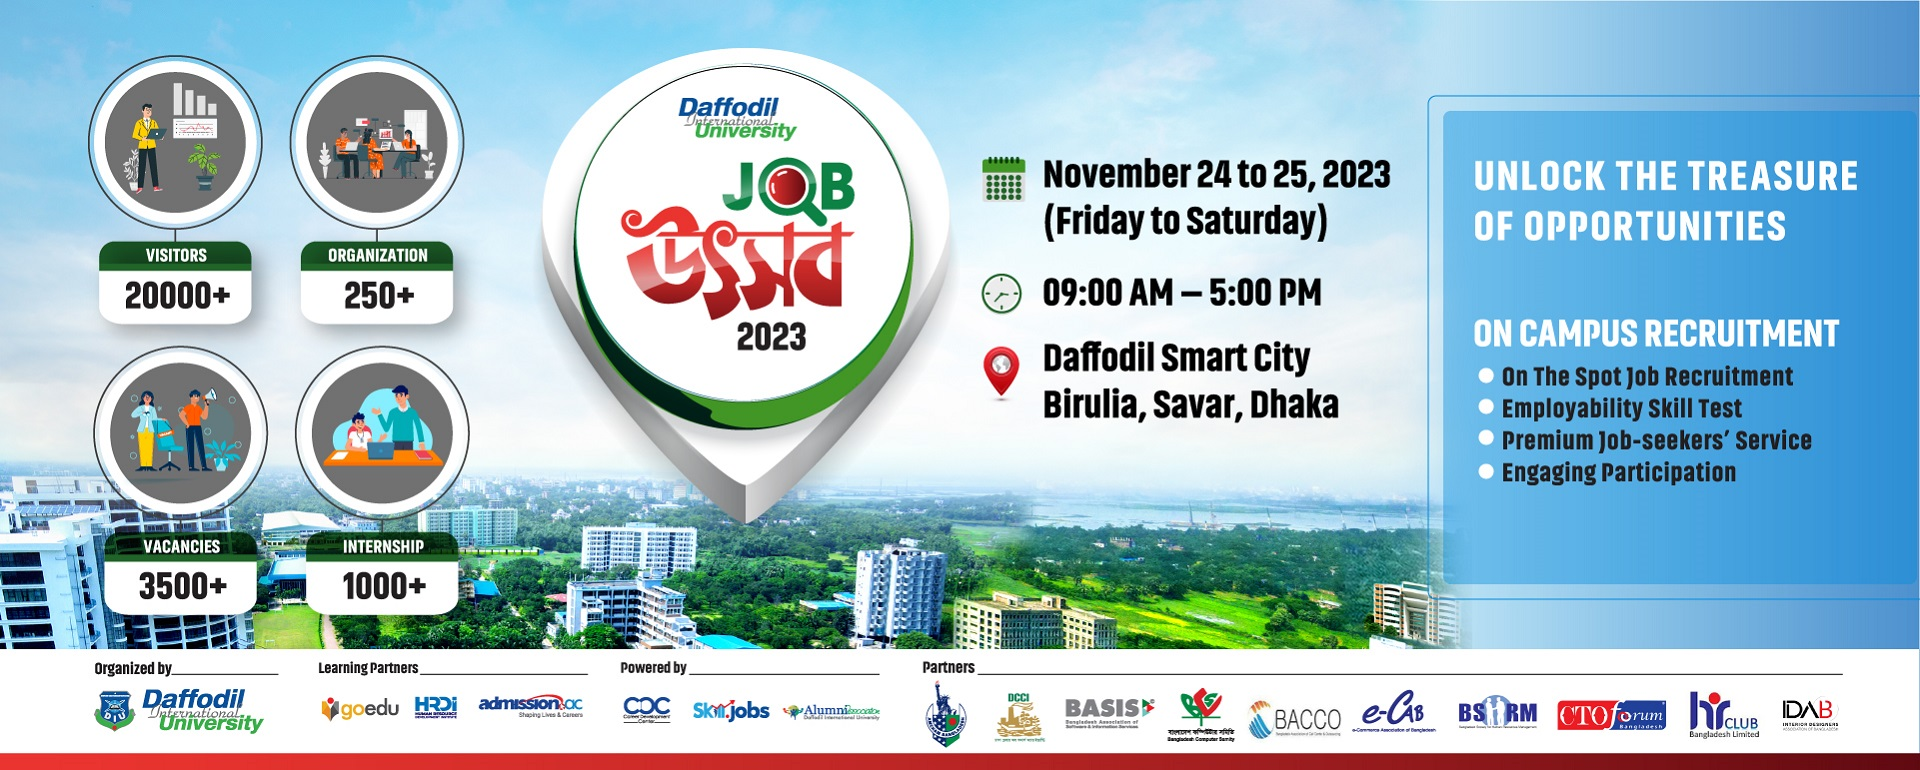
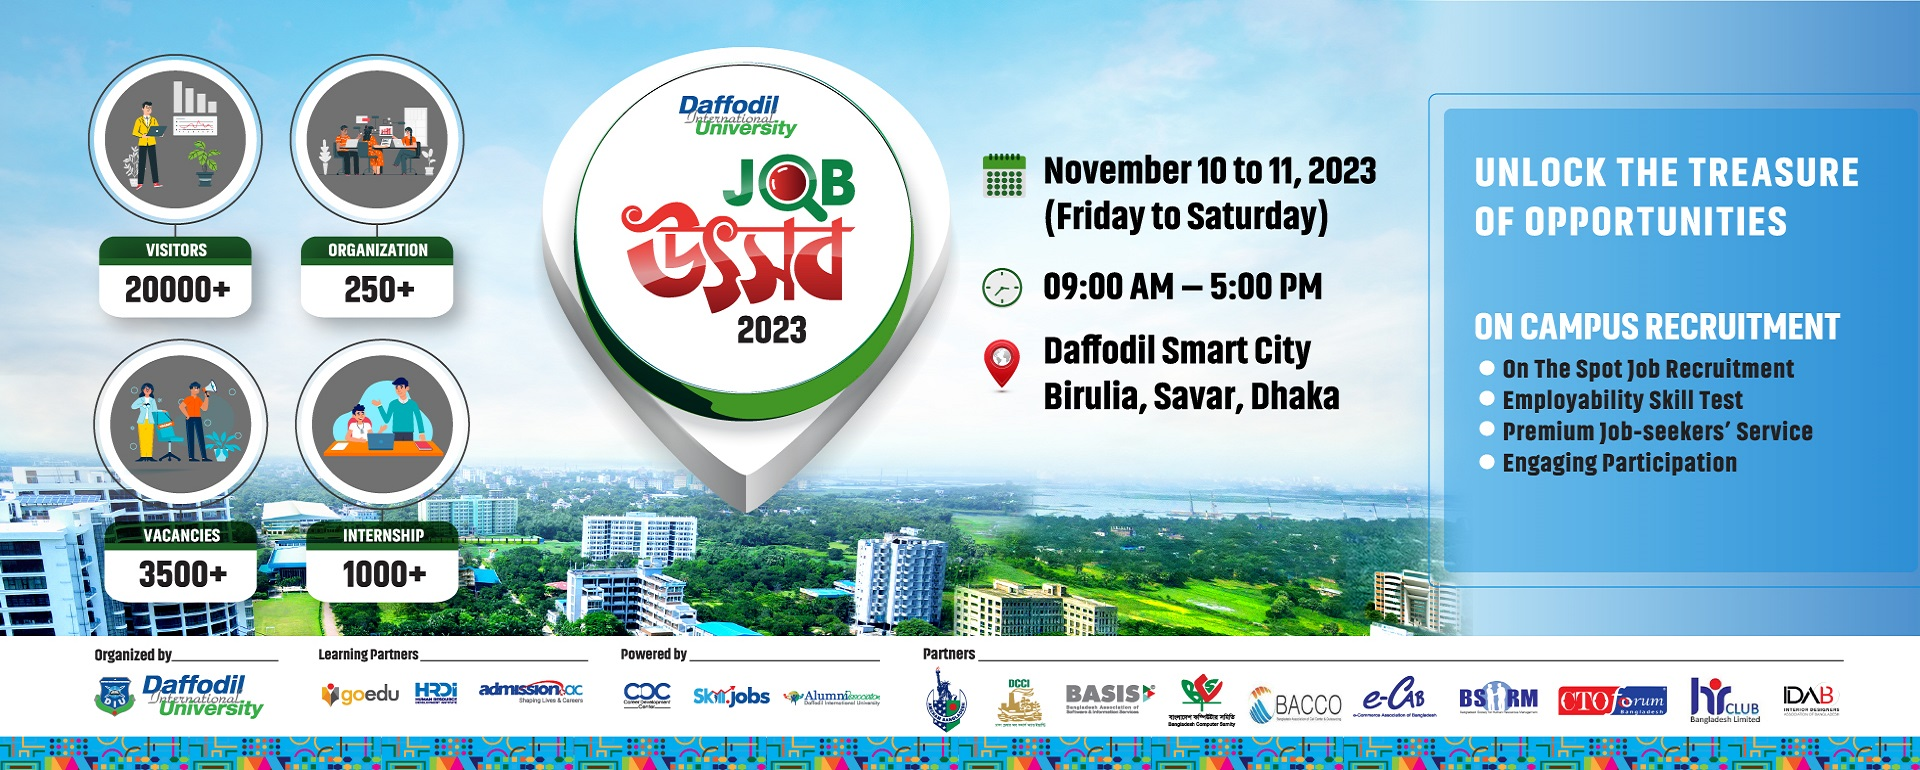
Time schedule updated

diff --git a/resources/views/jobseeker/create.blade.php b/resources/views/jobseeker/create.blade.php
@@ -132,7 +132,7 @@
                 <div class="col-md-4">
                     <label for="name">Jobseeker Type</label>
                     <input id="jobseeker_type" type="text" class="form-control @error('jobseeker_type') is-invalid @enderror" name="jobseeker_type" required autocomplete="jobseeker_type" readonly>
-                    <small> <i>application fee: BDT. <span id="output"></span></i></small><br>
+                    <!--<small> <i>application fee: BDT. <span id="output"></span></i></small><br>-->
                     <p><span class="font-italic small">(This field will take auto input depending on the passing year of the bachelor)</span></p>
                     @error('jobseeker_type')
                         <span class="invalid-feedback" role="alert">
@@ -161,7 +161,6 @@
                     </select>
                 </div>
             </div>
-            
             <div class="form-group row">
                 <div class="col-md-6">
                     <div class="form-group row mt-4">
@@ -403,7 +402,8 @@
                 </div>
             </div>
             <hr>
-            <h5 class="text-center mt-4" style="color: DodgerBlue;">Your Registration Fee BDT. <span id="test_payment"></span></h5>
+            <!--<h5 class="text-center mt-4" style="color: DodgerBlue;">Your Registration Fee BDT. <span id="test_payment"></span></h5>-->
+            <p class="text-center mt-4" style="color: DodgerBlue;">Registration Fee: Tk 200/participant (for Food Coupon)</p>
             <h5 class="text-center" style="color: #FF647F">Make bKash Payment To 01811458885</h5>
             <div class="form-group row mb-5">
                 <label for="trix" class="col-md-3 col-form-label text-md-right">{{ __('Enter bKash Transaction ID') }}<span class="text-danger"> *</span></label>
@@ -446,7 +446,7 @@
     });
 </script>
 <script>
-    $(document).ready(function() {
+$(document).ready(function() {
         $('select[name="masters_faculty_id"]').on('change', function() {
             var mfacultyID = $(this).val();
             if(mfacultyID) {
@@ -467,7 +467,6 @@
         });
     });
 </script>
-<!-- Script for gender selection -->
 <script>
     const genderButtons = document.querySelectorAll('.gender');
     const genderInput = document.getElementById('gender-input');

diff --git a/resources/views/welcome.blade.php b/resources/views/welcome.blade.php
@@ -58,7 +58,7 @@
 			<div class="col-sm-offset-3 col-sm-6 text-center">
 				<div class="centered-content" style="margin-top: 48px; margin-bottom: 48px">
 					<!-- Your countdown content goes here -->
-					<div class="meeta-countdown countdown" data-countdown="2023/11/24" data-format="short">
+					<div class="meeta-countdown countdown" data-countdown="2023/11/10" data-format="short">
 						<div class="single-countdown">
 							<span class="count countdown__time daysLeft"></span>
 							<span class="value countdown__time daysText"></span>
@@ -81,12 +81,11 @@
 		</div>
 	</div>
 </div>
-	<!-- Register & Countdown Section End -->
 <div class="container-fluid latest-blog latest-blog-section">
 		<div class="container section-padding" id="about">
 		    <div class="row">
     			<div class="section-header">
-    				<h3 style="padding-bottom: 0px;">DIU Job Utsob 2023</h3>
+    				<h3>DIU Job Utsob 2023</h3>
     			</div>
     			<div class="section-body">
     				<P>
@@ -201,7 +200,7 @@
 								<div class="timer-box">
 									<h3>DIU JOB UTSOB-2023 </h3>
 									<div class="content-center">
-										<p><b>Date: November 24-25, 2023 (Friday-Saturday).</b></p>
+										<p><b>Date: November 10-11, 2023 (Friday-Saturday).</b></p>
 									</div>
 									<div class="content-center">
 										<p><b>Venue: Daffodil Smart City, Birulia, Savar, Dhaka – 1216</b></p>

diff --git a/resources/views/frontend/layouts/footer.blade.php b/resources/views/frontend/layouts/footer.blade.php
@@ -8,7 +8,7 @@
 				</div>	
 				<div class="footer-about-content">
 					
-					<p>Second half of November for 2 days:  November 24 to 25, 2023 (Friday to Saturday)
+					<p>Second half of November for 2 days:  November 10 to 11, 2023 (Friday to Saturday)
 						Multi-dimensional Human Resource &  Recruitment Initiative
 						</p>
 				</div>
